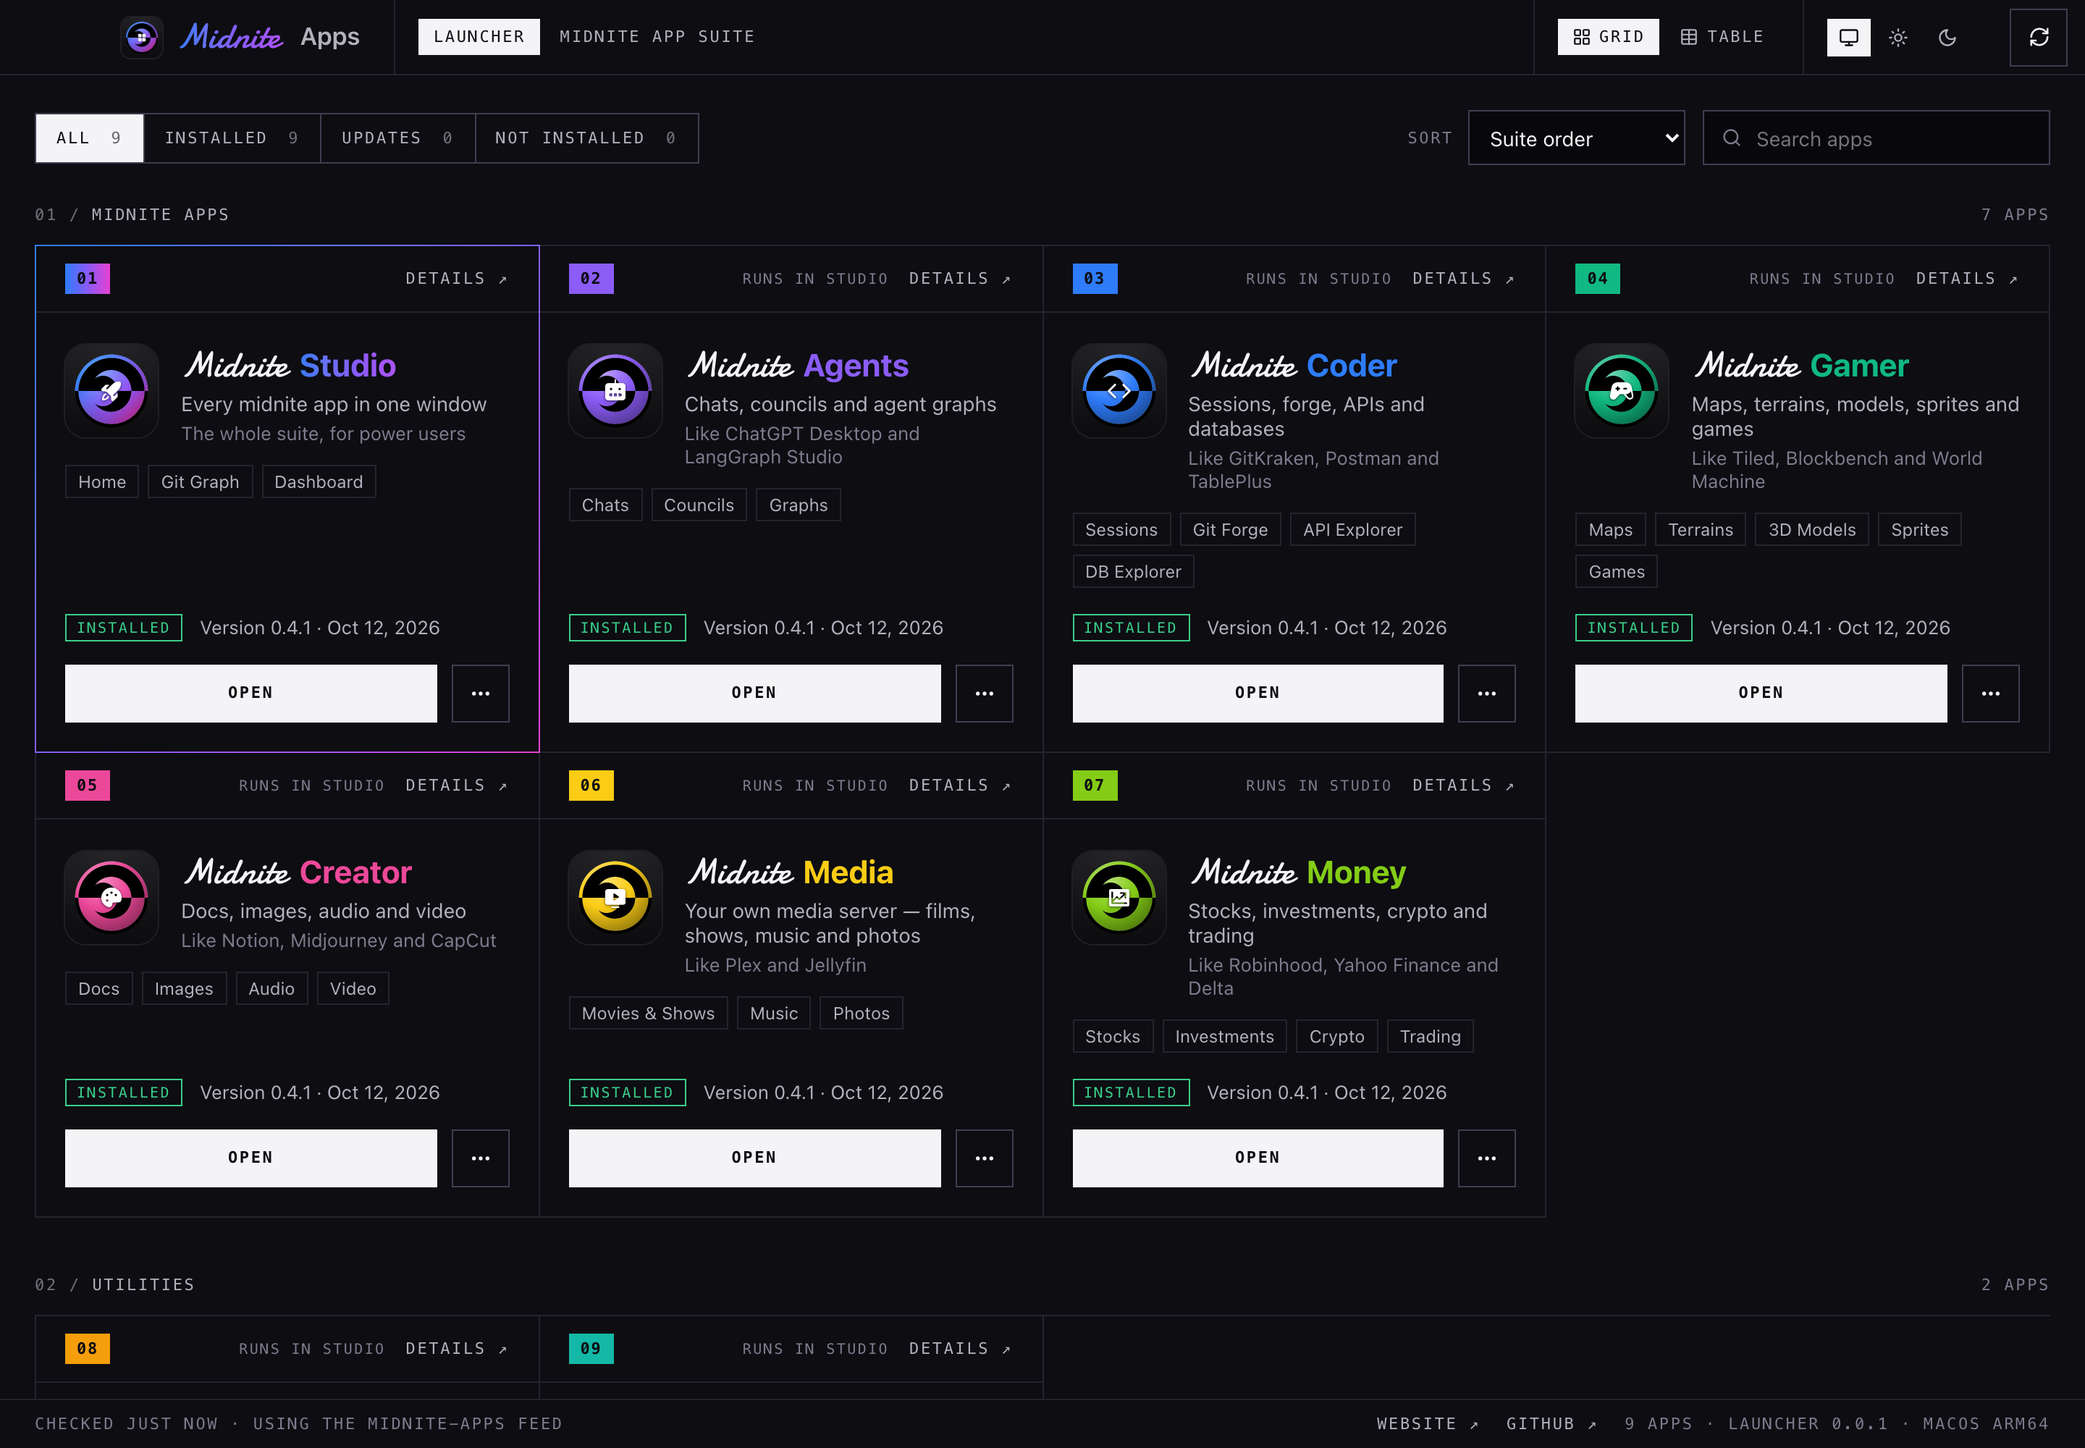
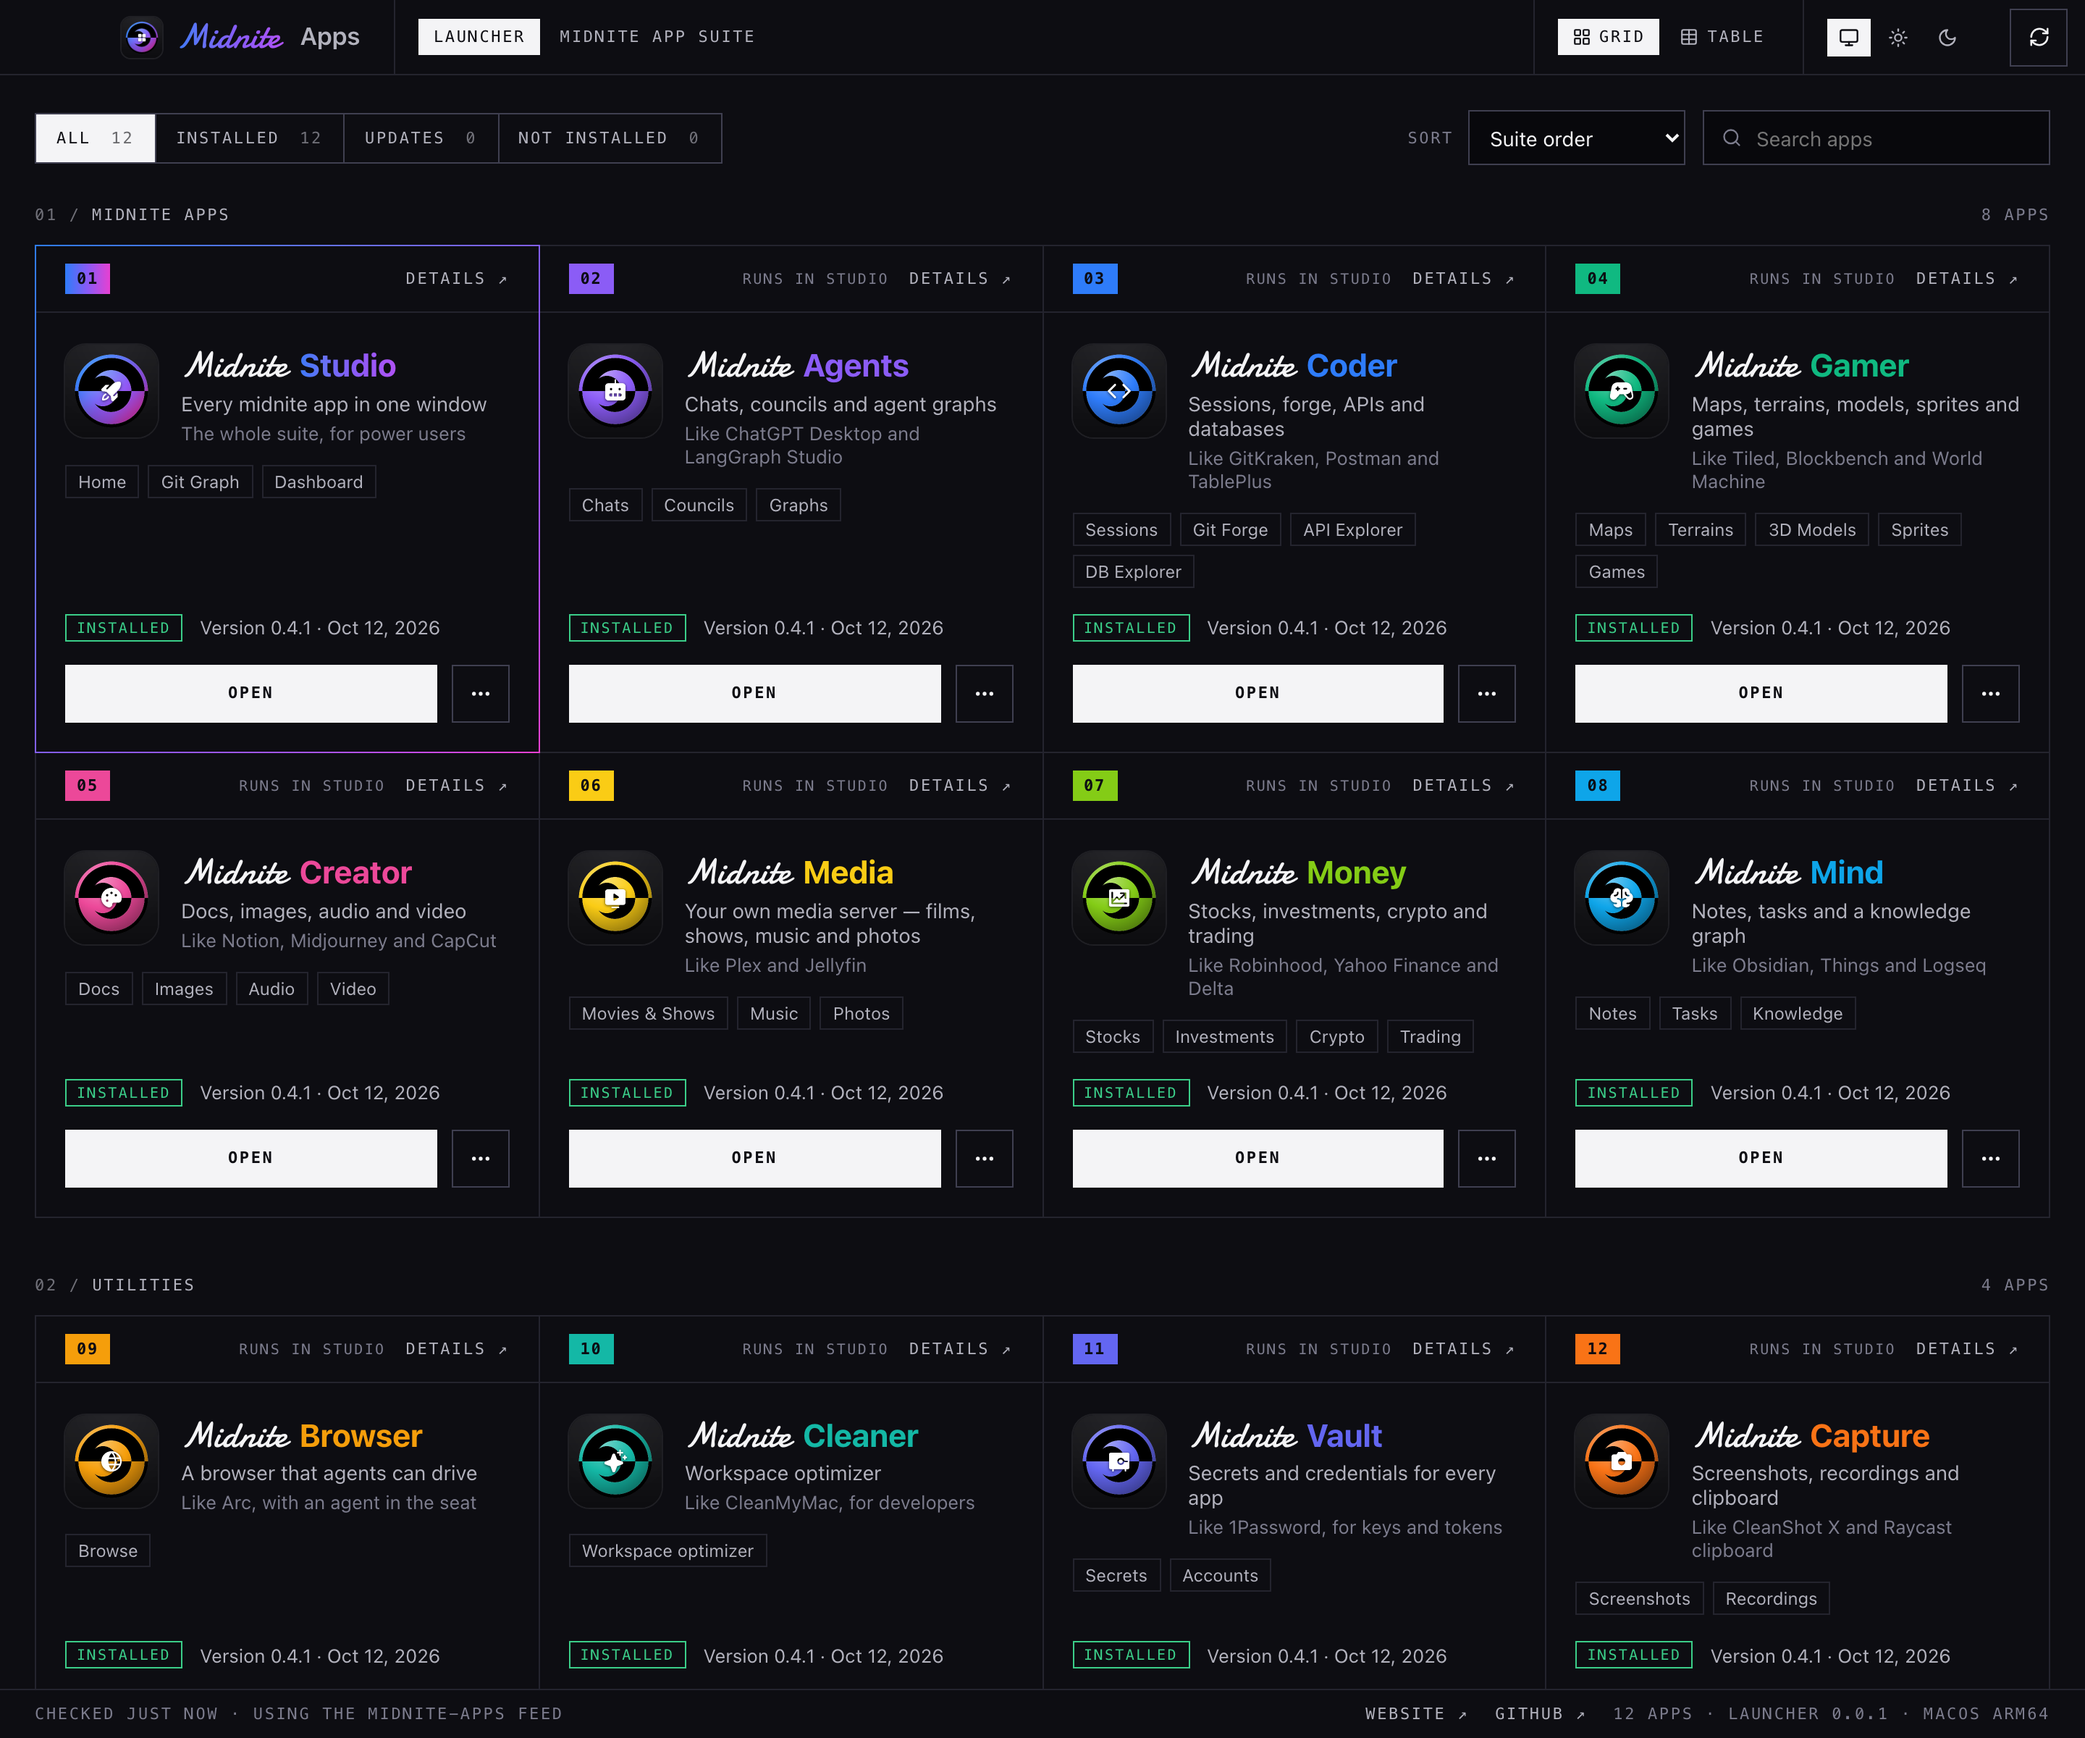
feat(launcher): add Mind, Vault and Capture tiles
Midnite Mind (notes, tasks, knowledge graph) joins the suite as 08; Vault
(secrets and credentials) and Capture (screenshots, recordings, clipboard)
join the utilities. Each opens Studio on the view it lives in today, with a
generated logo in its own accent.

diff --git a/apps/launcher/src/common/catalog.ts b/apps/launcher/src/common/catalog.ts
@@ -64,7 +64,7 @@ export type LauncherApp = {
   runsIn: 'studio';
 };
 
-export const APP_IDS = ['studio', 'agents', 'coder', 'gamer', 'creator', 'media', 'money', 'browser', 'cleaner'] as const;
+export const APP_IDS = ['studio', 'agents', 'coder', 'gamer', 'creator', 'media', 'money', 'mind', 'browser', 'cleaner', 'vault', 'capture'] as const;
 export type AppId = (typeof APP_IDS)[number];
 
 const view = (v: ViewId, tab?: MediaTab): StudioTarget =>
@@ -211,6 +211,23 @@ export const APPS: readonly LauncherApp[] = [
     runsIn: 'studio',
   },
   {
+    id: 'mind',
+    name: 'Mind',
+    section: 'suite',
+    accent: '#0ea5e9',
+    tagline: 'Notes, tasks and a knowledge graph',
+    like: 'Like Obsidian, Things and Logseq',
+    vision:
+      'A second brain that stays on your disk: notes you capture in a keystroke, the tasks they turn into, and a knowledge graph that links both to the code, docs and conversations they came from — so finding the thing you half-remember is a search, not an afternoon.',
+    home: view('notes'),
+    features: [
+      { id: 'notes', label: 'Notes', blurb: 'Quick capture, linked and searchable', target: view('notes') },
+      { id: 'tasks', label: 'Tasks', blurb: 'Boards, issues and what is next', target: view('tasks') },
+      { id: 'knowledge', label: 'Knowledge', blurb: 'The graph that ties it all together', target: view('knowledge') },
+    ],
+    runsIn: 'studio',
+  },
+  {
     id: 'browser',
     name: 'Browser',
     section: 'utilities',
@@ -242,6 +259,38 @@ export const APPS: readonly LauncherApp[] = [
     home: view('optimizer'),
     features: [
       { id: 'optimizer', label: 'Workspace optimizer', blurb: 'Reclaim space from caches and stale trees', target: view('optimizer') },
+    ],
+    runsIn: 'studio',
+  },
+  {
+    id: 'vault',
+    name: 'Vault',
+    section: 'utilities',
+    accent: '#6366f1',
+    tagline: 'Secrets and credentials for every app',
+    like: 'Like 1Password, for keys and tokens',
+    vision:
+      'One encrypted home for the API keys, forge tokens, database logins and model-provider keys every midnite app needs — unlocked once, shared with the apps you allow, and never written into a settings file in plain text.',
+    home: view('settings'),
+    features: [
+      { id: 'secrets', label: 'Secrets', blurb: 'API keys and provider tokens', target: view('settings') },
+      { id: 'accounts', label: 'Accounts', blurb: 'Forge and database logins', target: view('settings') },
+    ],
+    runsIn: 'studio',
+  },
+  {
+    id: 'capture',
+    name: 'Capture',
+    section: 'utilities',
+    accent: '#f97316',
+    tagline: 'Screenshots, recordings and clipboard',
+    like: 'Like CleanShot X and Raycast clipboard',
+    vision:
+      'Grab a region, a window or a whole screen recording — then send it straight where it is needed: an agent chat, a pull-request comment or a Creator project — with a clipboard history so nothing you copied is ever one paste away from gone.',
+    home: view('media', 'image'),
+    features: [
+      { id: 'screenshots', label: 'Screenshots', blurb: 'Regions and windows, annotated', target: view('media', 'image') },
+      { id: 'recordings', label: 'Recordings', blurb: 'Screen captures into clips', target: view('media', 'video') },
     ],
     runsIn: 'studio',
   },

diff --git a/apps/launcher/src/renderer/app-glyphs.ts b/apps/launcher/src/renderer/app-glyphs.ts
@@ -1,6 +1,8 @@
 import type { IconType } from 'react-icons';
 import { LuCode } from 'react-icons/lu';
 import {
+  PiBrainFill,
+  PiCameraFill,
   PiChartLineUpFill,
   PiGameControllerFill,
   PiGlobeFill,
@@ -10,6 +12,7 @@ import {
   PiRocketLaunchFill,
   PiSparkleFill,
   PiSquaresFourFill,
+  PiVaultFill,
 } from 'react-icons/pi';
 
 import type { AppId } from '../common/catalog';
@@ -31,8 +34,11 @@ export const APP_GLYPHS: Record<AppId, IconType> = {
   creator: PiPaletteFill,
   media: PiMonitorPlayFill,
   money: PiChartLineUpFill,
+  mind: PiBrainFill,
   browser: PiGlobeFill,
   cleaner: PiSparkleFill,
+  vault: PiVaultFill,
+  capture: PiCameraFill,
   studio: PiRocketLaunchFill,
 };
 

diff --git a/apps/launcher/src/main/links.test.ts b/apps/launcher/src/main/links.test.ts
@@ -37,5 +37,8 @@ describe('catalog → midnite-studio links', () => {
     expect(appLink('gamer')).toBe('midnite-studio://view?id=media&tab=game');
     expect(appLink('gamer', 'nope')).toBe('midnite-studio://view?id=media&tab=game');
     expect(appLink('cleaner')).toBe('midnite-studio://view?id=optimizer');
+    expect(appLink('mind', 'knowledge')).toBe('midnite-studio://view?id=knowledge');
+    expect(appLink('vault')).toBe('midnite-studio://view?id=settings');
+    expect(appLink('capture', 'recordings')).toBe('midnite-studio://view?id=media&tab=video');
   });
 });

diff --git a/apps/launcher/src/renderer/model.test.ts b/apps/launcher/src/renderer/model.test.ts
@@ -38,8 +38,15 @@ describe('launcher model', () => {
       'Creator',
       'Gamer',
       'Media',
+      'Mind',
       'Money',
       'Studio',
+    ]);
+    expect(byName.find((g) => g.section === 'utilities')!.apps.map((a) => a.name)).toEqual([
+      'Browser',
+      'Capture',
+      'Cleaner',
+      'Vault',
     ]);
   });
 });
